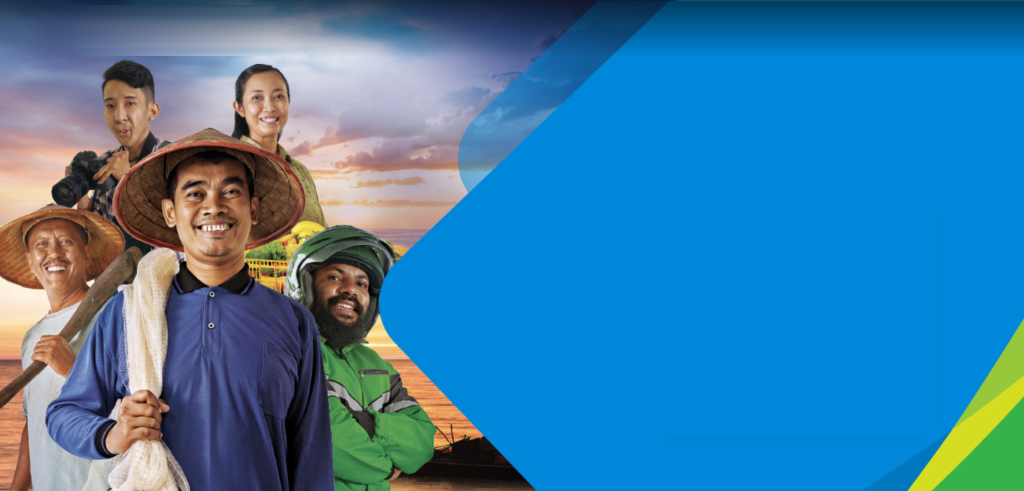
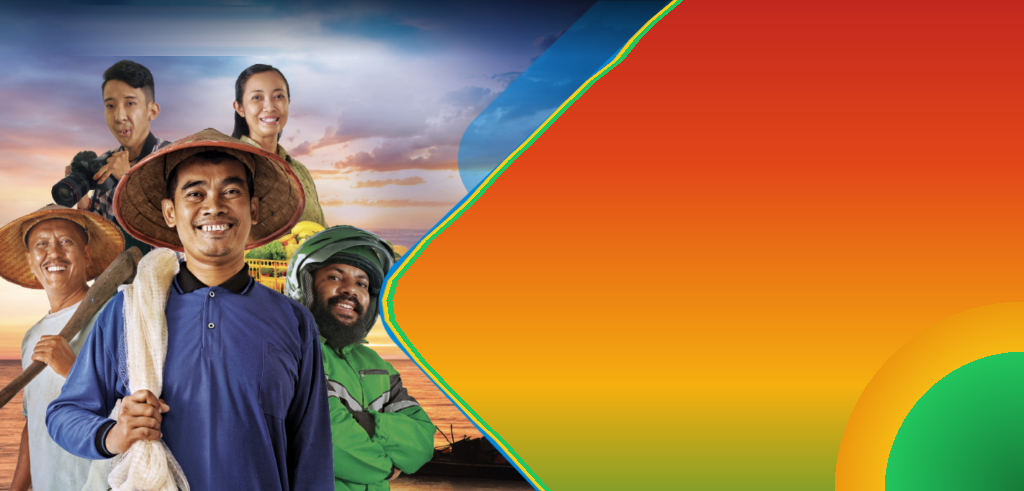
feat(login): update color palette to yellow, green, and reddish tones

diff --git a/src/app/login/page.tsx b/src/app/login/page.tsx
@@ -373,7 +373,7 @@ export default function LoginPage() {
   }
 
   return (
-    <div className="min-h-[100dvh] w-full relative flex flex-col justify-between overflow-x-hidden font-sans bg-[#0087D9]">
+    <div className="min-h-[100dvh] w-full relative flex flex-col justify-between overflow-x-hidden font-sans bg-gradient-to-br from-[#881337] via-[#9a3412] to-[#14532d]">
       {/* Background Graphic Layer */}
       <div className="fixed inset-0 z-0 overflow-hidden pointer-events-none select-none">
         <img 
@@ -383,13 +383,13 @@ export default function LoginPage() {
           loading="eager"
         />
         {/* Soft responsive overlay for mobile readability */}
-        <div className="absolute inset-0 bg-gradient-to-b from-black/40 via-transparent to-[#0087D9]/80 md:hidden" />
+        <div className="absolute inset-0 bg-gradient-to-b from-black/50 via-black/20 to-[#881337]/90 md:hidden" />
       </div>
 
       {/* TOP LEFT HEADER: Official Application Logo & Title */}
       <header className="relative z-30 pt-6 px-6 sm:pt-8 sm:px-10 flex items-center justify-between w-full">
         <div className="flex items-center gap-3 md:gap-4 select-none">
-          <div className="w-11 h-11 sm:w-13 sm:h-13 rounded-2xl bg-white/20 backdrop-blur-md border border-white/40 p-1.5 shadow-xl flex items-center justify-center transition-transform hover:scale-105 duration-300">
+          <div className="w-11 h-11 sm:w-13 sm:h-13 rounded-2xl bg-white/20 backdrop-blur-md border border-amber-300/40 p-1.5 shadow-xl flex items-center justify-center transition-transform hover:scale-105 duration-300">
             <img 
               src="/logo.png" 
               alt="Logo SIMPU" 
@@ -400,7 +400,7 @@ export default function LoginPage() {
             <span className="text-xl sm:text-2xl font-black tracking-wider leading-none uppercase">
               SIMPU
             </span>
-            <span className="text-[9px] sm:text-[10px] font-semibold text-white/95 uppercase tracking-widest leading-tight mt-1">
+            <span className="text-[9px] sm:text-[10px] font-semibold text-amber-200 uppercase tracking-widest leading-tight mt-1">
               Sistem Informasi Manajemen Pelaku Usaha
             </span>
           </div>
@@ -412,16 +412,16 @@ export default function LoginPage() {
         <div className="w-full max-w-[360px] sm:max-w-[380px] flex flex-col items-center">
           {/* Greeting text above card */}
           <div className="text-center mb-6 sm:mb-7 select-none">
-            <h1 className="text-2xl sm:text-3xl lg:text-[32px] font-medium text-white leading-tight tracking-tight drop-shadow-md">
+            <h1 className="text-2xl sm:text-3xl lg:text-[32px] font-semibold text-white leading-tight tracking-tight drop-shadow-lg">
               Selamat Datang
             </h1>
-            <p className="text-xl sm:text-2xl lg:text-[26px] font-normal text-white/95 leading-tight tracking-tight drop-shadow-md mt-1">
+            <p className="text-xl sm:text-2xl lg:text-[26px] font-medium text-amber-100/95 leading-tight tracking-tight drop-shadow-md mt-1">
               di Aplikasi SIMPU
             </p>
           </div>
 
           {/* White Card Container */}
-          <div className="w-full bg-white rounded-2xl sm:rounded-[22px] shadow-[0_20px_50px_rgba(0,0,0,0.22)] p-6 sm:p-7 border border-white/60">
+          <div className="w-full bg-white/98 backdrop-blur-md rounded-2xl sm:rounded-[24px] shadow-[0_25px_60px_rgba(0,0,0,0.3)] p-6 sm:p-7 border border-white/80 ring-1 ring-amber-500/10">
             {isRegistered ? (
               /* Success State */
               <div className="text-center py-4 space-y-4 animate-in fade-in zoom-in-95 duration-300">
@@ -442,7 +442,7 @@ export default function LoginPage() {
                     setIsRegistered(false)
                     setIsRegisteringView(false)
                   }}
-                  className="w-full h-11 rounded-lg bg-[#0087D9] hover:bg-[#0076BF] text-white font-semibold text-sm shadow-md transition-all flex items-center justify-center gap-2 cursor-pointer"
+                  className="w-full h-11 rounded-xl bg-gradient-to-r from-[#DC2626] to-[#D97706] hover:from-[#B91C1C] hover:to-[#B45309] text-white font-bold text-sm shadow-md transition-all flex items-center justify-center gap-2 cursor-pointer"
                 >
                   <ArrowLeft className="w-4 h-4" />
                   <span>Kembali ke Login</span>
@@ -467,7 +467,7 @@ export default function LoginPage() {
                     onChange={(e) => setRegName(e.target.value)}
                     placeholder="Username Baru"
                     required
-                    className="w-full h-11 sm:h-12 px-4 rounded-lg bg-[#EEF3F9] border border-[#D5E1EE] text-slate-800 placeholder:text-slate-400 font-medium text-sm sm:text-base focus:bg-white focus:outline-none focus:ring-2 focus:ring-[#0087D9]/40 focus:border-[#0087D9] transition-all"
+                    className="w-full h-11 sm:h-12 px-4 rounded-xl bg-[#F8FAFC] border border-slate-200 text-slate-800 placeholder:text-slate-400 font-medium text-sm sm:text-base focus:bg-white focus:outline-none focus:ring-2 focus:ring-amber-500/40 focus:border-amber-500 transition-all"
                   />
                 </div>
 
@@ -478,7 +478,7 @@ export default function LoginPage() {
                     onChange={(e) => setRegPass(e.target.value)}
                     placeholder="Kata Sandi Baru"
                     required
-                    className="w-full h-11 sm:h-12 px-4 rounded-lg bg-[#EEF3F9] border border-[#D5E1EE] text-slate-800 placeholder:text-slate-400 font-medium text-sm sm:text-base focus:bg-white focus:outline-none focus:ring-2 focus:ring-[#0087D9]/40 focus:border-[#0087D9] transition-all"
+                    className="w-full h-11 sm:h-12 px-4 rounded-xl bg-[#F8FAFC] border border-slate-200 text-slate-800 placeholder:text-slate-400 font-medium text-sm sm:text-base focus:bg-white focus:outline-none focus:ring-2 focus:ring-amber-500/40 focus:border-amber-500 transition-all"
                   />
                 </div>
 
@@ -486,7 +486,7 @@ export default function LoginPage() {
                   <button
                     type="submit"
                     disabled={registering}
-                    className="w-full h-11 sm:h-12 rounded-lg bg-[#0087D9] hover:bg-[#0076BF] active:scale-[0.99] text-white font-semibold text-sm sm:text-base shadow-md transition-all flex items-center justify-center gap-2 cursor-pointer disabled:opacity-70 disabled:cursor-not-allowed"
+                    className="w-full h-11 sm:h-12 rounded-xl bg-gradient-to-r from-[#16A34A] to-[#15803D] hover:from-[#15803D] hover:to-[#166534] active:scale-[0.99] text-white font-bold text-sm sm:text-base shadow-md transition-all flex items-center justify-center gap-2 cursor-pointer disabled:opacity-70 disabled:cursor-not-allowed"
                   >
                     {registering ? (
                       <>
@@ -520,7 +520,7 @@ export default function LoginPage() {
                     placeholder="Username / ID"
                     autoComplete="username"
                     required
-                    className="w-full h-11 sm:h-12 px-4 rounded-lg bg-[#EEF3F9] border border-[#D5E1EE] text-slate-800 placeholder:text-slate-400 font-medium text-sm sm:text-base focus:bg-white focus:outline-none focus:ring-2 focus:ring-[#0087D9]/40 focus:border-[#0087D9] transition-all"
+                    className="w-full h-11 sm:h-12 px-4 rounded-xl bg-[#F8FAFC] border border-slate-200 text-slate-800 placeholder:text-slate-400 font-medium text-sm sm:text-base focus:bg-white focus:outline-none focus:ring-2 focus:ring-amber-500/40 focus:border-amber-500 transition-all"
                   />
                 </div>
 
@@ -534,7 +534,7 @@ export default function LoginPage() {
                     placeholder="••••••••"
                     autoComplete="current-password"
                     required
-                    className="w-full h-11 sm:h-12 px-4 pr-11 rounded-lg bg-[#EEF3F9] border border-[#D5E1EE] text-slate-800 placeholder:text-slate-400 font-medium text-sm sm:text-base focus:bg-white focus:outline-none focus:ring-2 focus:ring-[#0087D9]/40 focus:border-[#0087D9] transition-all"
+                    className="w-full h-11 sm:h-12 px-4 pr-11 rounded-xl bg-[#F8FAFC] border border-slate-200 text-slate-800 placeholder:text-slate-400 font-medium text-sm sm:text-base focus:bg-white focus:outline-none focus:ring-2 focus:ring-amber-500/40 focus:border-amber-500 transition-all"
                   />
                   <button
                     type="button"
@@ -547,12 +547,12 @@ export default function LoginPage() {
                   </button>
                 </div>
 
-                {/* Login Action Button */}
+                {/* Login Action Button with Kemerahan - Kuning Keemasan gradient */}
                 <div className="pt-2">
                   <button
                     type="submit"
                     disabled={loading || !identifier.trim() || !password}
-                    className="w-full h-11 sm:h-12 rounded-lg bg-[#0087D9] hover:bg-[#0076BF] active:scale-[0.99] text-white font-semibold text-sm sm:text-base shadow-md transition-all flex items-center justify-center gap-2 cursor-pointer disabled:opacity-60 disabled:cursor-not-allowed"
+                    className="w-full h-11 sm:h-12 rounded-xl bg-gradient-to-r from-[#DC2626] via-[#EA580C] to-[#D97706] hover:from-[#B91C1C] hover:via-[#C2410C] hover:to-[#B45309] active:scale-[0.99] text-white font-bold text-sm sm:text-base shadow-lg shadow-orange-950/20 transition-all flex items-center justify-center gap-2 cursor-pointer disabled:opacity-60 disabled:cursor-not-allowed"
                   >
                     {loading ? (
                       <>
@@ -567,21 +567,21 @@ export default function LoginPage() {
 
                 {/* Secondary navigation & register link */}
                 <div className="pt-3 border-t border-slate-100 flex flex-col gap-2.5">
-                  <div className="flex items-center justify-between text-xs font-semibold text-slate-600">
+                  <div className="flex items-center justify-between text-xs font-semibold">
                     <button
                       type="button"
                       onClick={() => router.push('/pendaftaran')}
-                      className="hover:text-[#0087D9] transition-colors flex items-center gap-1.5"
+                      className="text-emerald-700 hover:text-emerald-800 transition-colors flex items-center gap-1.5"
                     >
-                      <UserPlus className="w-3.5 h-3.5 text-[#0087D9]" />
+                      <UserPlus className="w-3.5 h-3.5 text-emerald-600" />
                       <span>Daftar Pelaku Usaha</span>
                     </button>
                     <button
                       type="button"
                       onClick={() => router.push('/cek-data')}
-                      className="hover:text-[#0087D9] transition-colors flex items-center gap-1.5"
+                      className="text-amber-700 hover:text-amber-800 transition-colors flex items-center gap-1.5"
                     >
-                      <SearchCheck className="w-3.5 h-3.5 text-[#0087D9]" />
+                      <SearchCheck className="w-3.5 h-3.5 text-amber-600" />
                       <span>Cek Data Publik</span>
                     </button>
                   </div>
@@ -590,9 +590,9 @@ export default function LoginPage() {
                     <button
                       type="button"
                       onClick={() => setIsRegisteringView(true)}
-                      className="text-[11px] text-slate-400 hover:text-[#0087D9] transition-colors"
+                      className="text-[11px] text-slate-400 hover:text-red-600 transition-colors"
                     >
-                      Belum punya akun petugas? <span className="font-semibold text-slate-600 underline hover:text-[#0087D9]">Daftar di sini</span>
+                      Belum punya akun petugas? <span className="font-semibold text-slate-600 underline hover:text-red-600">Daftar di sini</span>
                     </button>
                   </div>
                 </div>
